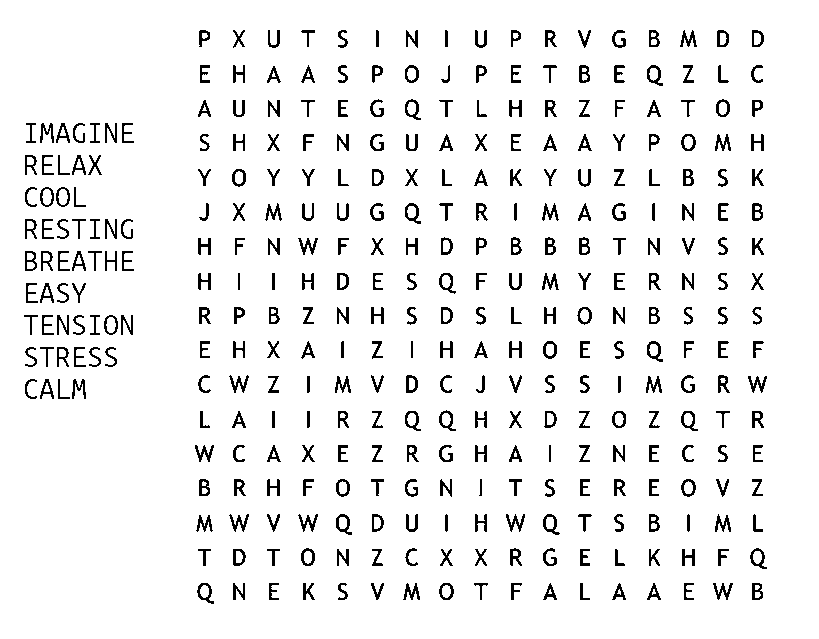
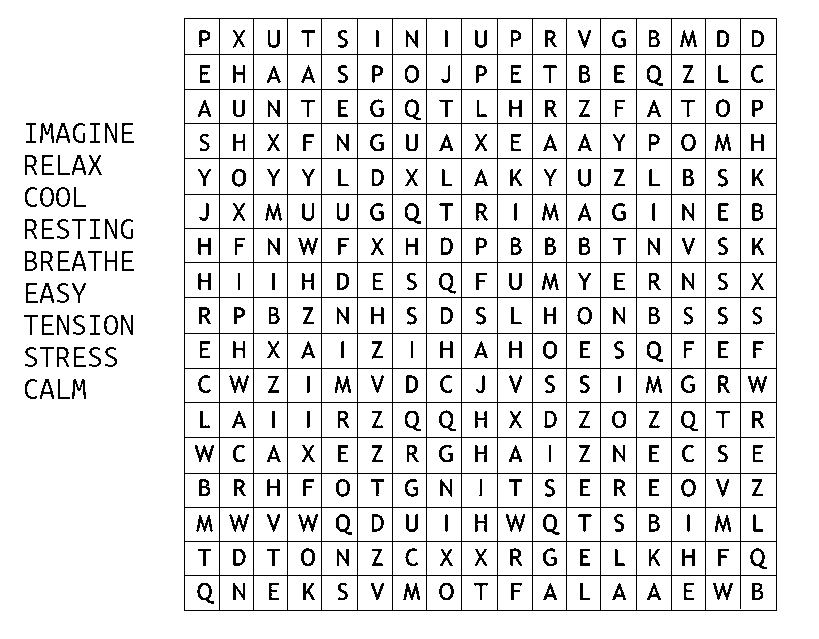
1

diff --git a/src/preprocessing.c b/src/preprocessing.c
@@ -192,70 +192,6 @@ Image* denoise_image_median3x3(Image *src)
     return dst;
 }
 
-Image* remove_grid_lines(Image *src)
-{
-    if (!src || !src->data || src->channels != 1)
-        return NULL;
-
-    int w = src->width;
-    int h = src->height;
-    size_t N = (size_t)w * h;
-
-    Image *dst = malloc(sizeof(Image));
-    if (!dst) return NULL;
-    dst->width = w;
-    dst->height = h;
-    dst->channels = 1;
-    dst->data = malloc(N);
-    if (!dst->data) {
-        free(dst);
-        return NULL;
-    }
-
-    memcpy(dst->data, src->data, N);
-
-    /* seuils : % minimal de noir sur une colonne / ligne
-       pour la considérer comme « ligne de grille »          */
-    float col_ratio = 0.70f;
-    float row_ratio = 0.70f;
-
-    int min_col_black = (int)(h * col_ratio);
-    int min_row_black = (int)(w * row_ratio);
-
-    if (min_col_black < 40) min_col_black = 40;
-    if (min_row_black < 40) min_row_black = 40;
-
-    /* --- Colonnes verticales --- */
-    for (int x = 0; x < w; ++x) {
-        int black_count = 0;
-        for (int y = 0; y < h; ++y) {
-            if (src->data[y * w + x] == 0)
-                ++black_count;
-        }
-        if (black_count >= min_col_black) {
-            /* colonne très « noire » → on la blanchit */
-            for (int y = 0; y < h; ++y)
-                dst->data[y * w + x] = 255;
-        }
-    }
-
-    /* --- Lignes horizontales --- */
-    for (int y = 0; y < h; ++y) {
-        int black_count = 0;
-        for (int x = 0; x < w; ++x) {
-            if (src->data[y * w + x] == 0)
-                ++black_count;
-        }
-        if (black_count >= min_row_black) {
-            /* ligne très « noire » → on la blanchit */
-            for (int x = 0; x < w; ++x)
-                dst->data[y * w + x] = 255;
-        }
-    }
-
-    return dst;
-}
-
 
 // variance des projections colonne (verticale)
 static double var_proj_x(const Image *im)
@@ -500,5 +436,111 @@ Image* remove_small_components(Image *src, int min_size)
     free(queue);
     free(vis);
     return dst;
+}
+
+
+void remove_grid_lines(Image *bin)
+{
+    if (!bin || !bin->data || bin->channels != 1)
+        return;
+
+    int w = bin->width;
+    int h = bin->height;
+    int N = w * h;
+
+    unsigned char *data = bin->data;
+
+    unsigned char *visited = calloc(N, 1);
+    if (!visited) return;
+
+    int *qx = malloc(sizeof(int) * N);
+    int *qy = malloc(sizeof(int) * N);
+    int *comp = malloc(sizeof(int) * N); /* indices des pixels du composant */
+    if (!qx || !qy || !comp) {
+        free(visited);
+        free(qx);
+        free(qy);
+        free(comp);
+        return;
+    }
+
+    /* longueur minimale pour considérer une vraie ligne */
+    int max_dim = (w > h) ? w : h;
+    int min_len = max_dim / 6;          /* ~ un sixième de l'image */
+
+    for (int y0 = 0; y0 < h; ++y0) {
+        for (int x0 = 0; x0 < w; ++x0) {
+            int idx0 = y0 * w + x0;
+            if (data[idx0] != 0 || visited[idx0])
+                continue;
+
+            /* BFS sur le composant noir */
+            int head = 0, tail = 0;
+            qx[tail] = x0;
+            qy[tail] = y0;
+            tail++;
+            visited[idx0] = 1;
+
+            int count = 0;
+            int minx = x0, maxx = x0;
+            int miny = y0, maxy = y0;
+
+            while (head < tail) {
+                int x = qx[head];
+                int y = qy[head];
+                int idx = y * w + x;
+                head++;
+
+                comp[count++] = idx;
+
+                if (x < minx) minx = x;
+                if (x > maxx) maxx = x;
+                if (y < miny) miny = y;
+                if (y > maxy) maxy = y;
+
+                /* 4-connexe */
+                const int dx[4] = {1,-1,0,0};
+                const int dy[4] = {0,0,1,-1};
+                for (int k = 0; k < 4; ++k) {
+                    int nx = x + dx[k];
+                    int ny = y + dy[k];
+                    if (nx < 0 || nx >= w || ny < 0 || ny >= h)
+                        continue;
+                    int nidx = ny * w + nx;
+                    if (data[nidx] == 0 && !visited[nidx]) {
+                        visited[nidx] = 1;
+                        qx[tail] = nx;
+                        qy[tail] = ny;
+                        tail++;
+                    }
+                }
+            }
+
+            int width  = maxx - minx + 1;
+            int height = maxy - miny + 1;
+
+            int vertical = 0;
+            int horizontal = 0;
+
+            /* ligne verticale très fine et longue */
+            if (width <= 3 && height >= min_len && height >= 4 * width)
+                vertical = 1;
+
+            /* ligne horizontale très fine et longue */
+            if (height <= 3 && width >= min_len && width >= 4 * height)
+                horizontal = 1;
+
+            if (vertical || horizontal) {
+                /* on efface ce composant = ligne de grille */
+                for (int i = 0; i < count; ++i)
+                    data[comp[i]] = 255;
+            }
+        }
+    }
+
+    free(visited);
+    free(qx);
+    free(qy);
+    free(comp);
 }
 

diff --git a/src/main.c b/src/main.c
@@ -54,11 +54,10 @@ int main(void)
 	Image *bin = to_binary_auto(deskew);
 	free_image(deskew);
 
-	Image *cle = remove_small_components(bin, 15);
-	free_image(bin);
+	remove_grid_lines(bin);
 
-	Image *clean = remove_grid_lines(cle);
-	free(cle);
+	Image *clean = remove_small_components(bin, 15);
+	free_image(bin);
 
 	save_image(output_path, clean);
 	free_image(clean);

diff --git a/src/preprocessing.h b/src/preprocessing.h
@@ -5,7 +5,7 @@
 
 Image* enhance_contrast(Image *src);
 Image* to_grayscale(Image *src);
-Image* remove_grid_lines(Image *src);
+void remove_grid_lines(Image *src);
 Image* to_binary(Image *src, unsigned char threshold);
 Image* to_binary_auto(Image* src);
 Image* straighten_grid(Image *src);
